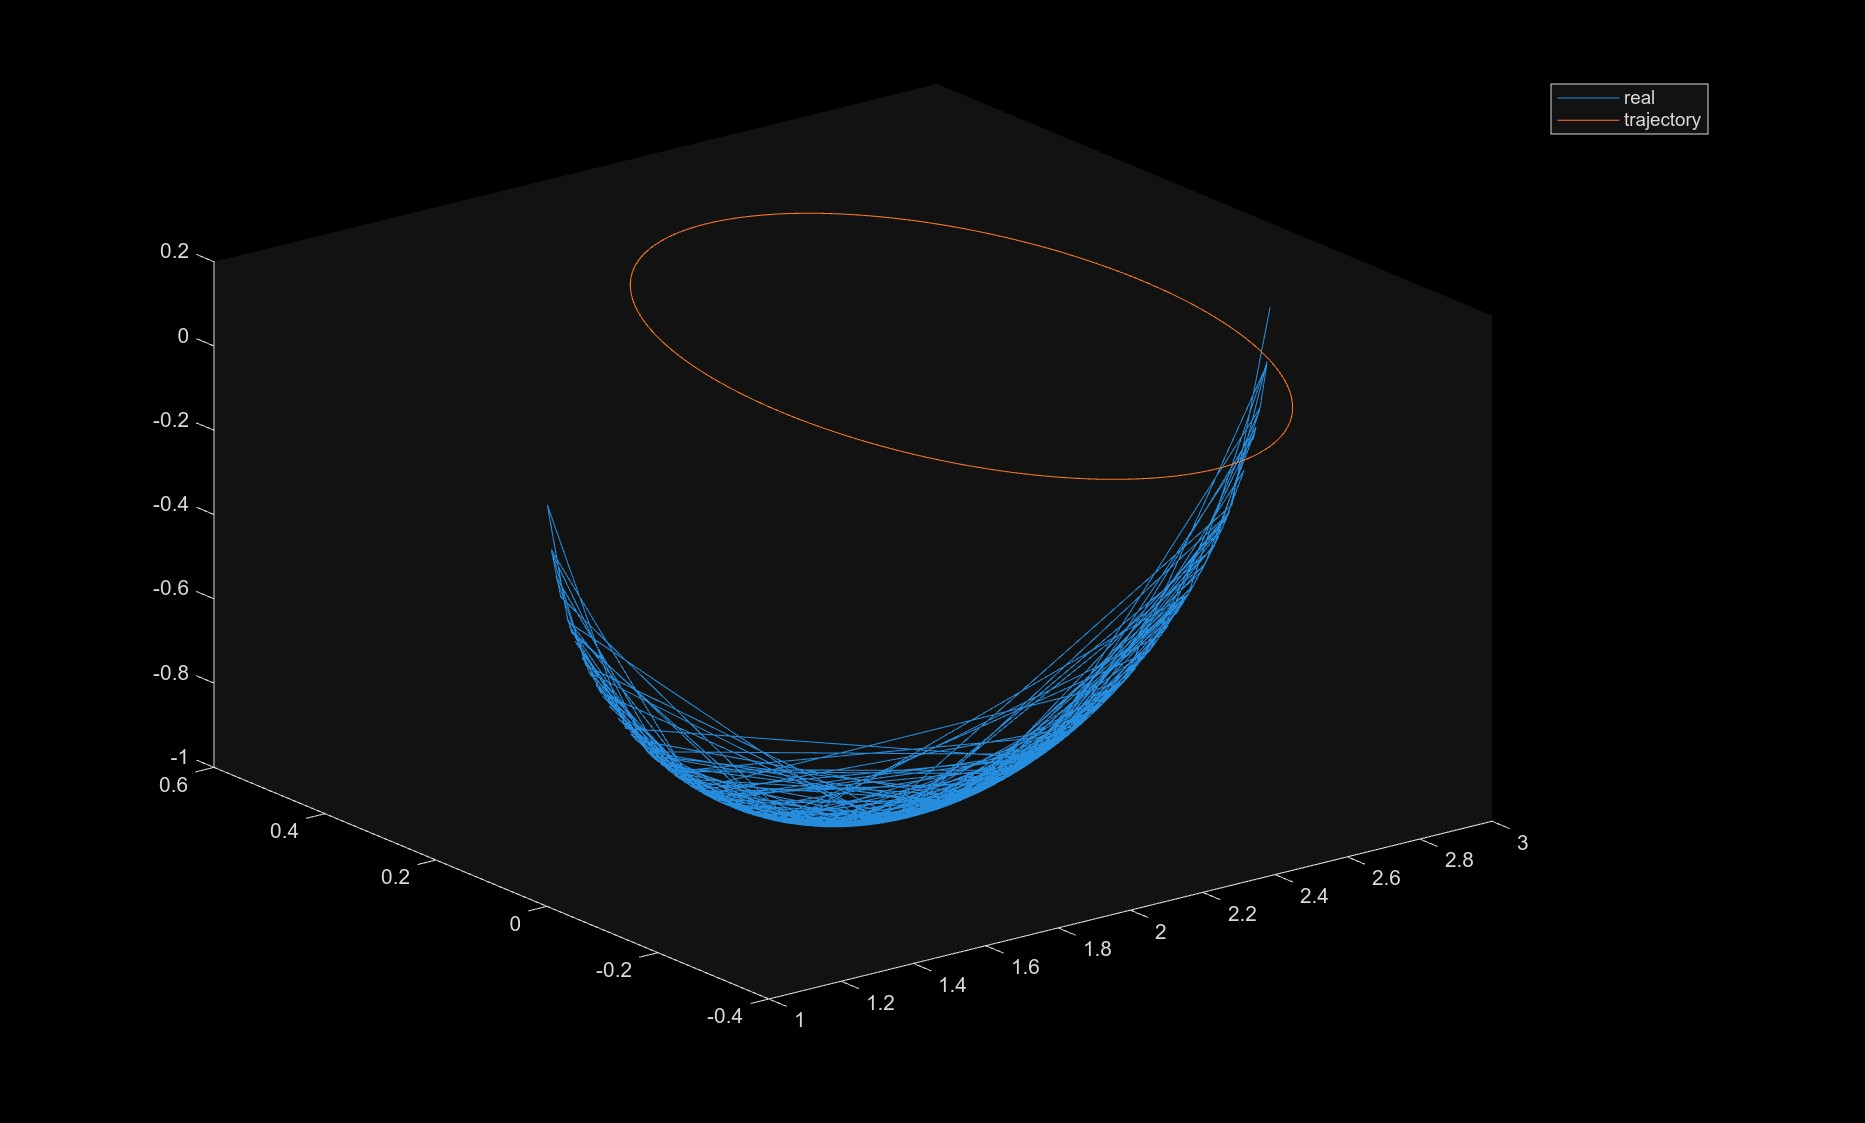
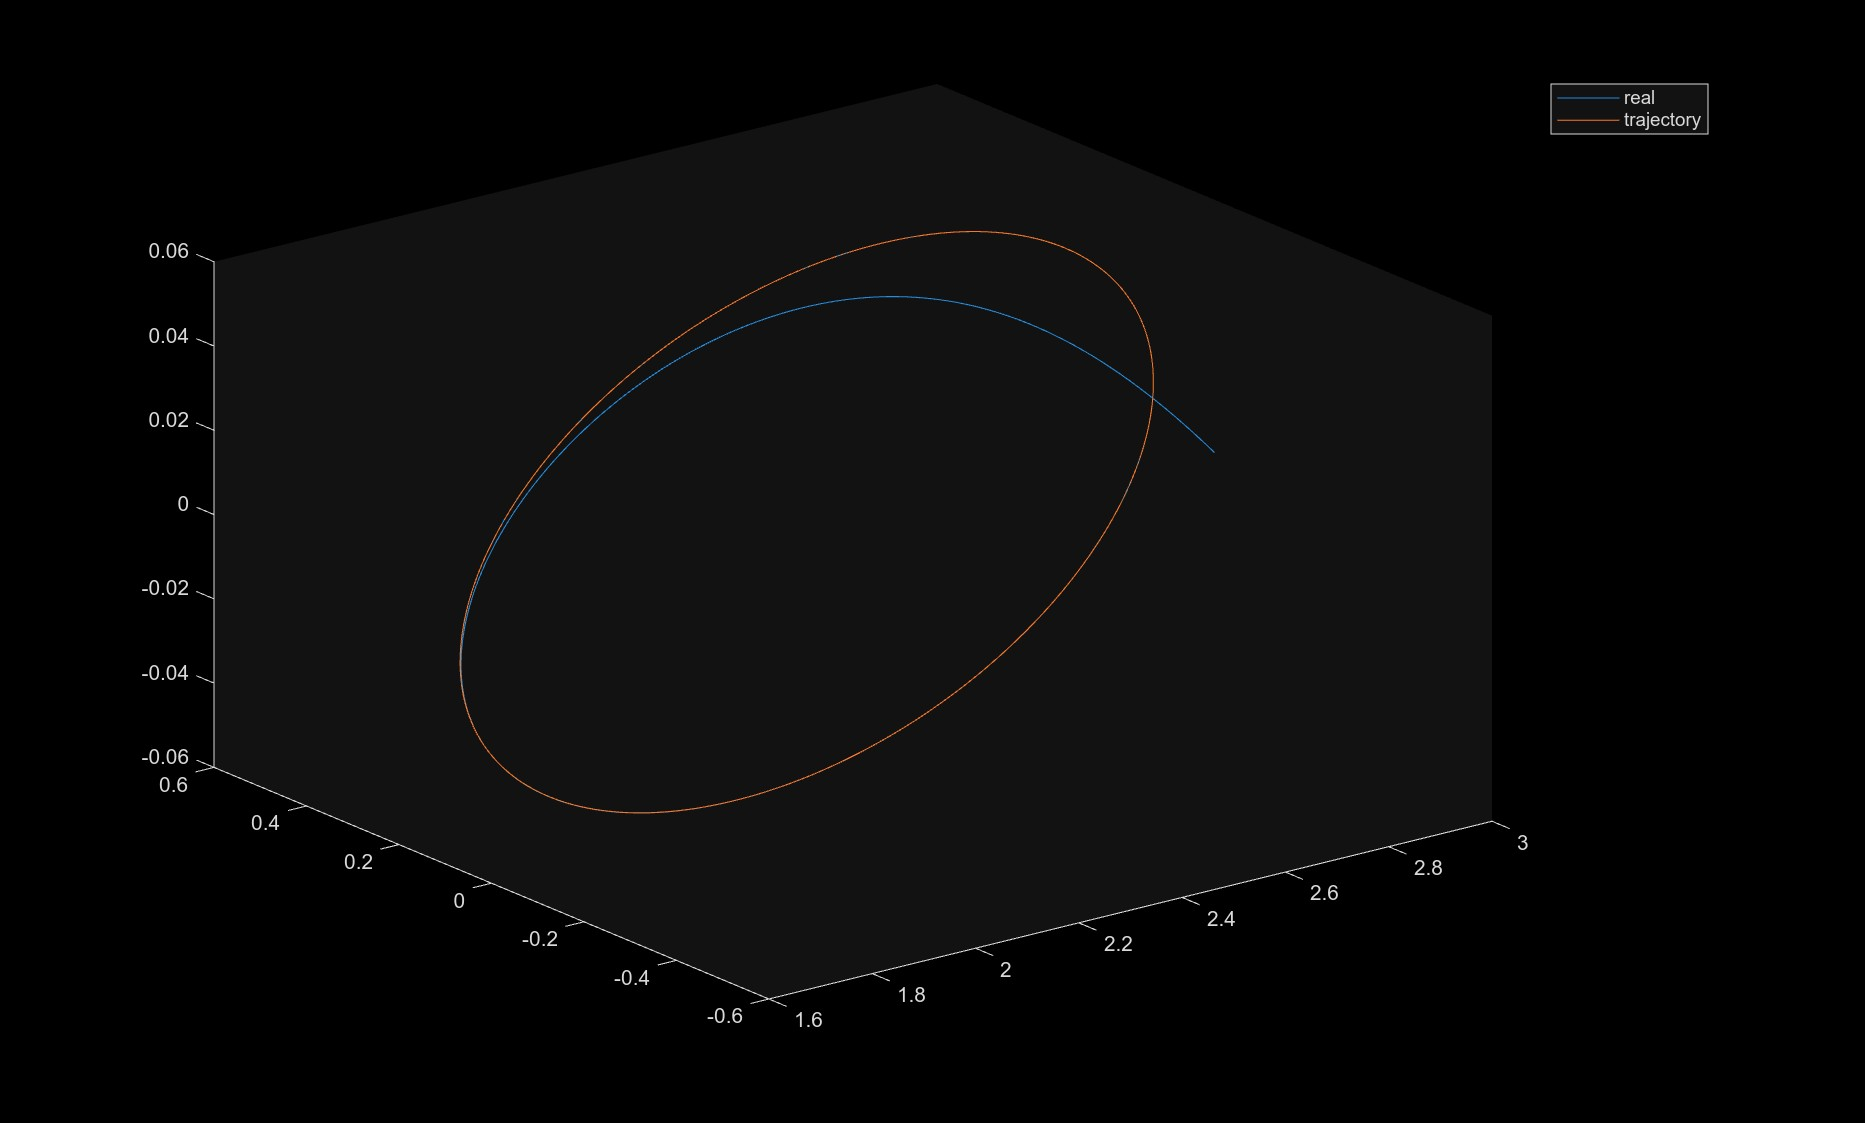
additional images to ex1

diff --git a/ex/3RMatlab/modelODE_1.m b/ex/3RMatlab/modelODE_1.m
@@ -79,8 +79,6 @@ function [ output_args, additional ] = modelODE( t, input_args, parameters )
     %trajectory
     [qchd, qchd_d1, qchd_d2] = effectorTrajectoryGenerator3D(t, parameters);
 
-        MInv = M^-1;
-
     %     y'' = P - J M^-1 C q' + J M^-1 u
 
         detJ = det(J);
@@ -88,7 +86,14 @@ function [ output_args, additional ] = modelODE( t, input_args, parameters )
         % calculate F
         % F = P - J M^-1 C q' - J M^-1 D - J M^-1 T        
         % F = zeros(3,1);
-        invM = inv(M);
+
+        detM = det(M);
+        
+        if detM == 0
+            M = M + eye(3)*0.0001;
+        end
+
+        invM = M^-1;
 
         F = P - J*invM*C*q_d1 - J*invM*D - J*invM*T;
         %calculate G
@@ -115,11 +120,11 @@ function [ output_args, additional ] = modelODE( t, input_args, parameters )
         % calculate inverse of G as below
         % Ginv = G^-1;
         if detG == 0
-            G = G + eye(3)*0.0001
+            G = G + eye(3)*0.0001;
         end
         
 
-        Ginv = inv(G);
+        Ginv = G^-1;
 
         % calculate control input u
         % u = G^-1 * (v - F)
@@ -127,7 +132,7 @@ function [ output_args, additional ] = modelODE( t, input_args, parameters )
         u = Ginv *(v-F);
         
         % calculate state
-        qr_d2 = MInv * (B * u - C * q_d1 - D - T);   
+        qr_d2 = invM * (B * u - C * q_d1 - D - T);   
 
     dets = [detG; detJ];            
         

diff --git a/ex/3RMatlab/start.m b/ex/3RMatlab/start.m
@@ -36,7 +36,7 @@ Kd = 50 * eye(3);
 
 %define initial conditions for the manipulator
 init_qr_d1 = [0; 0; 0];
-init_qr = [0.0; 0.0; 0.0];
+init_qr = [0.00001; 0.00001; 0.00001];
 
 qr1 = init_qr(1);
 qr2 = init_qr(2);
